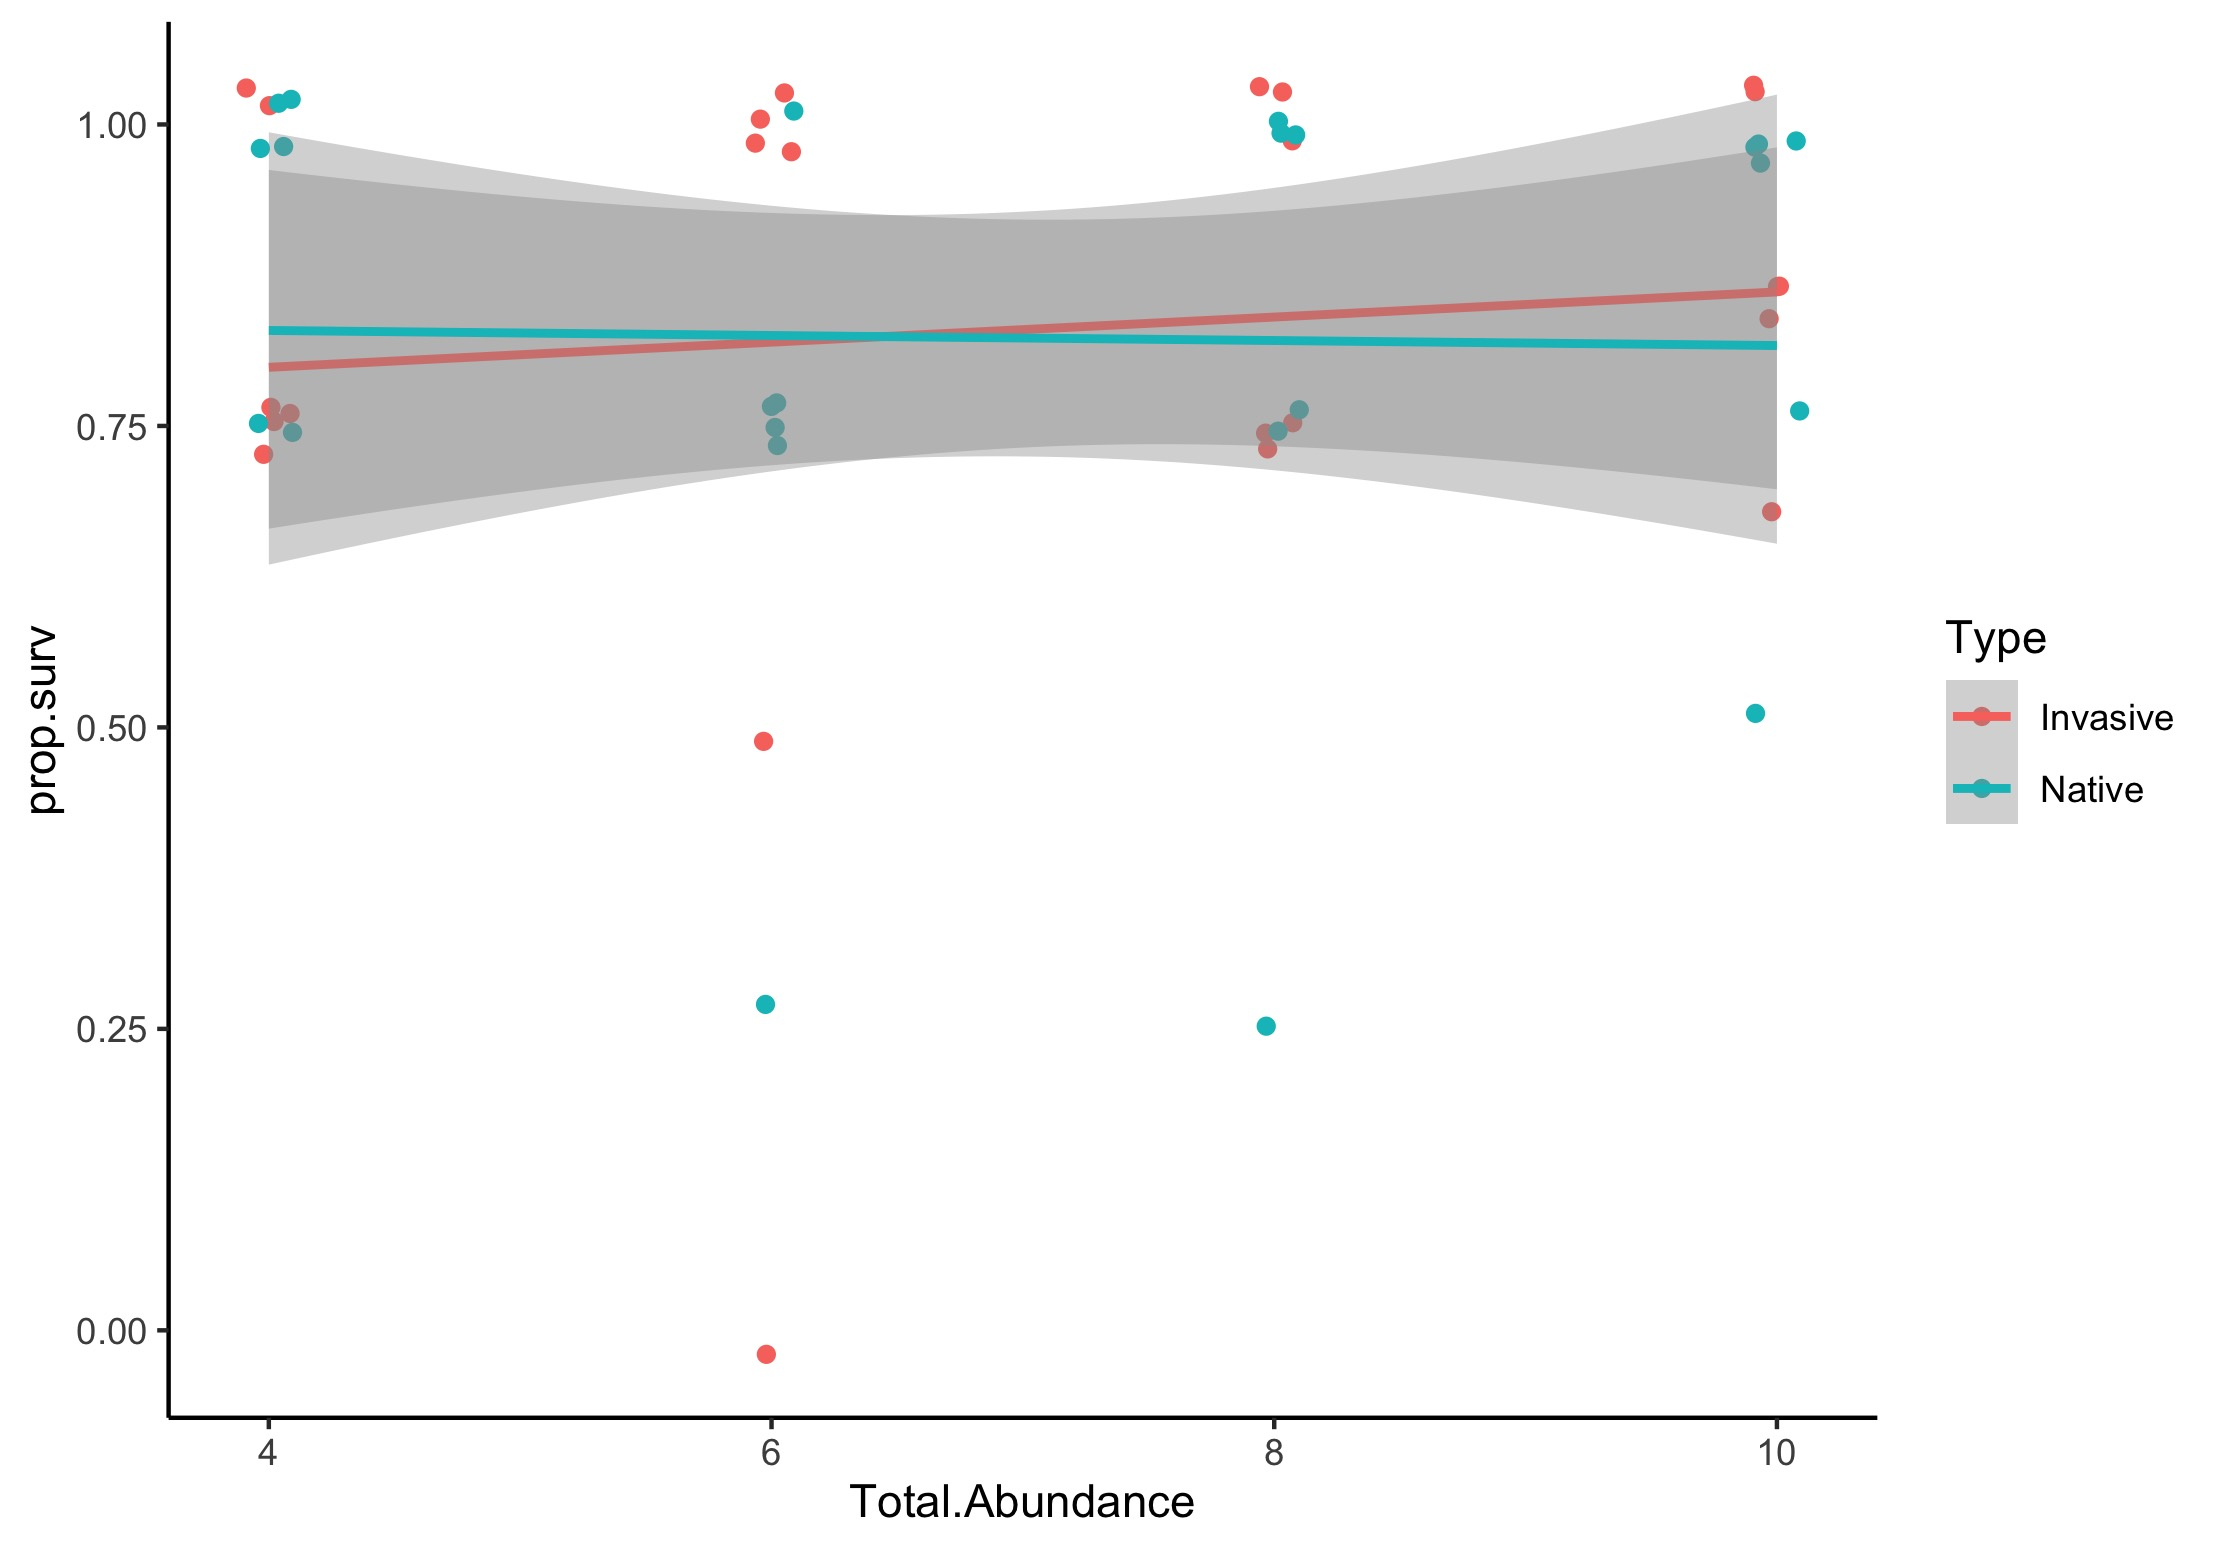
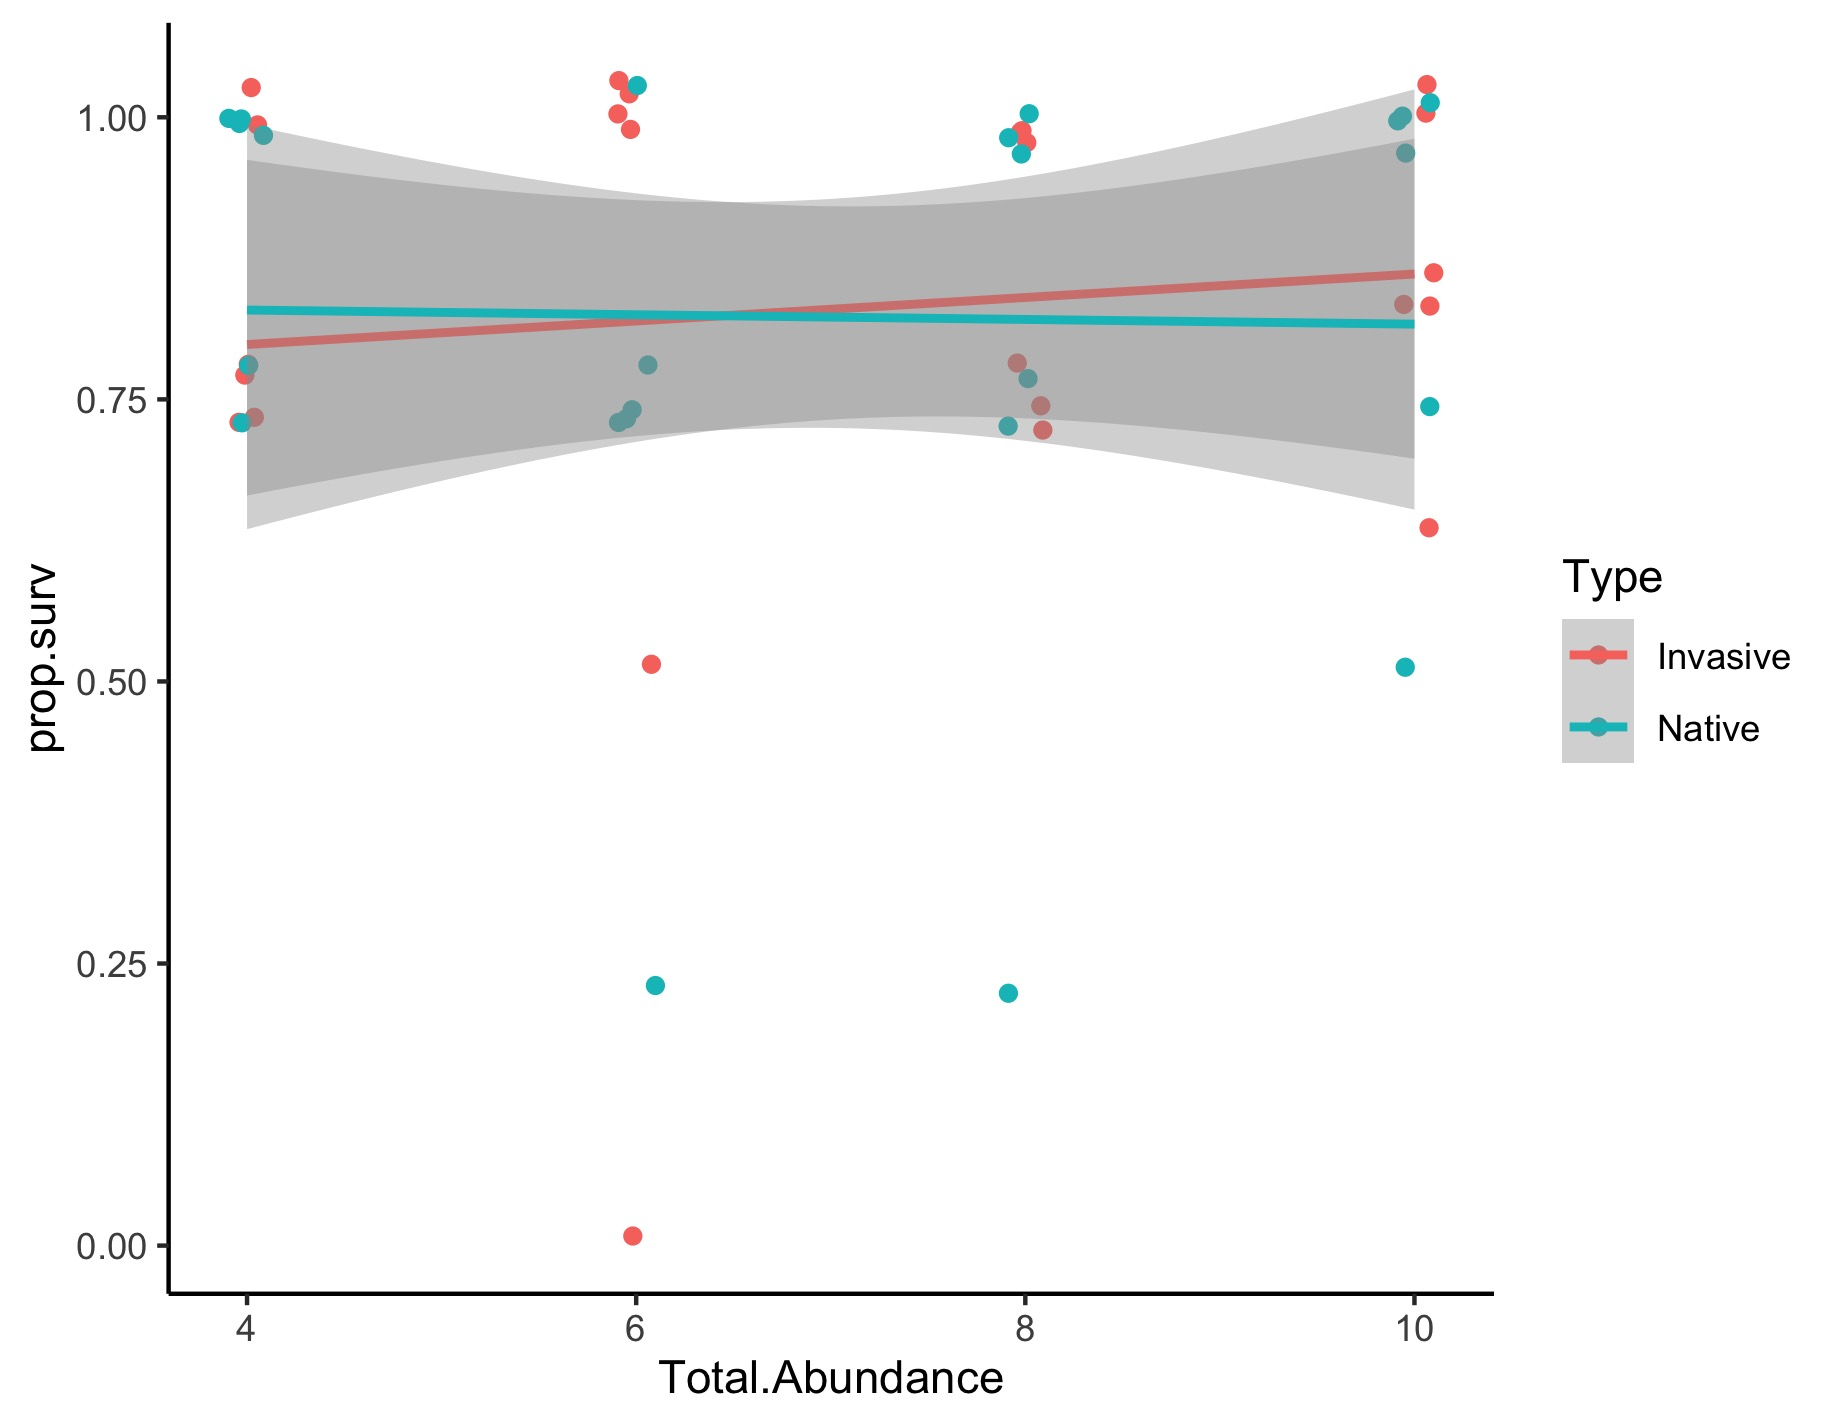
completed analysis of 2016 Survival

diff --git a/lab_notebook/analysis/crayfish_mass_change.md b/lab_notebook/analysis/crayfish_mass_change.md
@@ -566,49 +566,85 @@ A mean (+/- 1 SD) proportion of 0.944 (+/- 0.135) of the invasive crayfish survi
     
 In the 2016 experiment there was a significant negative effect of total abundance on the estimated change in the mass of an individual crayfish (p = 0.0130). The regression shows that there is a loss of 0.4095 g of mass change for each crayfish added to total abundance. The non-significant interaction (p = 0.4059) indicates that the effect of total abundance on the estimated change in mass of an individual crayfish was the same for both the invasive and native crayfish.
 
-The mean (+/- 1 SD) estimated change in mass of an individual invasive crayfish was 
-#### Survival 
-#### The effect of total crayfish abundance at the beginning of the exp on survival
-    
-##### Regression of mass change by total abundance 
+The mean (+/- 1 SD) estimated change in mass of an individual invasive crayfish was 3.64 (+/- 2.36) g and the mean estimated change in mass of an individual native crayfish was 1.97 (+/- 1.16) g but this difference was not significant at an alpha = 0.05 (p = 0.0752).
 
-    summary(lm(prop.surv ~ Total.Abundance * Type, data = cray.N, subset = Year == "2016"))
+## Survival (2016 Experiment)
+
+The model uses `Total.Abundance` and `Type` as the fixed effects and `Tank` as the random effect on which the error ie estimated.
+
+    (survival.tot.abundance.mod.2016 <- lmer(prop.surv ~ 1 + Total.Abundance * Type + (1|Tank) , data = cray.N, subset = Year == "2016"))
     
-    ##################################################    
-    Call:
-      lm(formula = prop.surv ~ Total.Abundance * Type, data = cray.N, 
-         subset = Year == "2016")
+    summary(survival.tot.abundance.mod.2016)
+    anova(survival.tot.abundance.mod.2016)
+   
+    ################################################## 
+    # Model Details
     
-    Residuals:
-      Min       1Q   Median       3Q      Max 
-    -0.81944 -0.07500 -0.02778  0.17917  0.20139 
+    (survival.tot.abundance.mod.2016 <- lmer(prop.surv ~ 1 + Total.Abundance * Type + (1|Tank) , data = cray.N, subset = Year == "2016"))
+    boundary (singular) fit: see ?isSingular
+    Linear mixed model fit by REML ['lmerModLmerTest']
+    Formula: prop.surv ~ 1 + Total.Abundance * Type + (1 | Tank)
+    Data: cray.N
+    Subset: Year == "2016"
+    REML criterion at convergence: 12.0477
+    Random effects:
+      Groups   Name        Std.Dev.
+    Tank     (Intercept) 0.0000  
+    Residual             0.2315  
+    Number of obs: 48, groups:  Tank, 30
+    Fixed Effects:
+      (Intercept)             Total.Abundance                  TypeNative  
+    0.75694                     0.01042                     0.08056  
+    Total.Abundance:TypeNative  
+    -0.01250  
+    optimizer (nloptwrap) convergence code: 0 (OK) ; 0 optimizer warnings; 1 lme4 warnings 
     
-    Coefficients:
-                                Estimate Std. Error t value Pr(>|t|)    
-    (Intercept)                 0.75694    0.15531   4.874 1.46e-05 ***
-    Total.Abundance             0.01042    0.02114   0.493    0.625    
-    TypeNative                  0.08056    0.21964   0.367    0.716    
-    Total.Abundance:TypeNative -0.01250    0.02989  -0.418    0.678    
+    # Summary of Results as a Regression
     
-    Residual standard error: 0.2315 on 44 degrees of freedom
-    Multiple R-squared:  0.005951,	Adjusted R-squared:  -0.06182 
-    F-statistic: 0.08781 on 3 and 44 DF,  p-value: 0.9664
+    summary(survival.tot.abundance.mod.2016)
+    Linear mixed model fit by REML. t-tests use Satterthwaites method ['lmerModLmerTest']
+    Formula: prop.surv ~ 1 + Total.Abundance * Type + (1 | Tank)
+    Data: cray.N
+    Subset: Year == "2016"
+    
+    REML criterion at convergence: 12
+    
+    Scaled residuals: 
+    Min      1Q  Median      3Q     Max 
+    -3.5393 -0.3239 -0.1200  0.7739  0.8698 
+    
+    Random effects:
+    Groups   Name        Variance Std.Dev.
+    Tank     (Intercept) 0.0000   0.0000  
+    Residual             0.0536   0.2315  
+    Number of obs: 48, groups:  Tank, 30
+    
+    Fixed effects:
+    Estimate Std. Error       df t value Pr(>|t|)    
+    (Intercept)                 0.75694    0.15531 44.00000   4.874 1.46e-05 ***
+    Total.Abundance             0.01042    0.02114 44.00000   0.493    0.625    
+    TypeNative                  0.08056    0.21964 44.00000   0.367    0.716    
+    Total.Abundance:TypeNative -0.01250    0.02989 44.00000  -0.418    0.678    
+    
+    Correlation of Fixed Effects:
+    (Intr) Ttl.Ab TypNtv
+    Totl.Abndnc -0.953              
+    TypeNative  -0.707  0.674       
+    Ttl.Abnd:TN  0.674 -0.707 -0.953
+    optimizer (nloptwrap) convergence code: 0 (OK)
+    boundary (singular) fit: see ?isSingular
+    
+    # Summary of the Results as an ANOVA
+    
+    Type III Analysis of Variance Table with Satterthwaites method
+                        Sum Sq   Mean Sq NumDF DenDF F value Pr(>F)
+    Total.Abundance      0.0041667 0.0041667     1    44  0.0777 0.7817
+    Type                 0.0072102 0.0072102     1    44  0.1345 0.7156
+    Total.Abundance:Type 0.0093750 0.0093750     1    44  0.1749 0.6778
+    
     ################################################## 
     
-    anova(lm(prop.surv ~ Total.Abundance * Type, data = cray.N, subset = Year == "2016"))
-    
-    ##################################################
-    Analysis of Variance Table
-    
-    Response: prop.surv
-                          Df  Sum Sq  Mean Sq F value Pr(>F)
-    Total.Abundance       1 0.00417 0.004167  0.0777 0.7817
-    Type                  1 0.00058 0.000579  0.0108 0.9177
-    Total.Abundance:Type  1 0.00937 0.009375  0.1749 0.6778
-    Residuals            44 2.35856 0.053604      
-    ################################################## 
-    
-There was no effect of the total abundance of crayfish in the tank (at the beginning of the exp) on the survival of the crayfish during the 2016 experiment.
+#### Plot of the 2016 Experiment Survival by Total Abundance
     
     ggplot(subset(cray.N, Year == "2016"), mapping = aes(y = prop.surv, x = Total.Abundance, color = Type)) +
              geom_jitter(
@@ -621,24 +657,7 @@ There was no effect of the total abundance of crayfish in the tank (at the begin
     
 ![prop.surv.by.abundance.2016](../output/plots/prop.surv.by.abundance.2016.jpg)
     
-##### ANOVA of survival by treatment
-    
-The other way to analyze the effect would be to treat the different abundance levels as a catagorical variable and analyze the effect on the response with a two-way ANOVA.
-    
-    anova(lm(prop.surv ~ Treatment * Type, data = cray.N, subset = Year == "2016"))
-    
-    ################################################## 
-    Analysis of Variance Table
-    
-    Response: prop.surv
-                    Df  Sum Sq  Mean Sq F value Pr(>F)
-    Treatment       4 0.18403 0.046007  0.8512 0.5014
-    Type            1 0.01235 0.012346  0.2284 0.6353
-    Treatment:Type  2 0.01427 0.007137  0.1320 0.8767
-    Residuals      40 2.16204 0.054051     
-    ################################################## 
-    
-This analysis also shows no effect of the number of crayfish at the beginning of the experiment on survival. 
+#### Plot of the 2016 Experiment Survival by Treatment
     
     ggplot(subset(cray.N, Year == "2016"), mapping = aes(y = prop.surv, x = Treatment, color = Type)) +
              geom_point(
@@ -658,196 +677,5 @@ This analysis also shows no effect of the number of crayfish at the beginning of
     
 ![prop.surv.by.treatment.2016.jpg](../output/plots/prop.surv.by.treatment.2016.jpg)
     
+## Description of the 2016 Experiment Survival Results
     
-##################################################    
-# OLD ANALYSIS BELOW DO NOT USE
-##################################################    
-## Analysis of Tank Mass Change
-
-## Import Data
-
-    cray.2016 <- read.table("./data/crayfish_growth_surv.csv", header = T, sep = ",")
-    
-## Create Variables
-    
-    Sp.Abundance <- c(rep(4, 24), rep(4, 12), rep(6, 6), rep(2, 6))
-    Total.Abundance <- c(rep(8, 6), rep(10, 6), rep(6, 6), rep(4, 6), rep(4, 6), rep(8, 6), rep(10, 6), rep(6, 6))
-    Final.Sp.Abundance <- Sp.Abundance * (cray$Survival / 100)
-    Final.Total.Abundance <- rep(Final.Sp.Abundance[cray$Species == "Native"] + Final.Sp.Abundance[cray$Species == "Invasive"], 2)
-    Final.Invasive.Abundance <- c((Final.Total.Abundance[cray$Species == "Native"] - Final.Sp.Abundance[cray$Species == "Native"]), (Final.Total.Abundance[cray$Species == "Invasive"] - Final.Sp.Abundance[cray$Species == "Invasive"]))
-    Invasive.Abundance <- c(rep(4, 6), rep(6, 6), rep(2, 6), rep(0, 6), rep(4, 6), rep(4, 6), rep(6, 6), rep(2, 6))
-    
-## Add Created Variables to the data.frame
-    
-    cray <- data.frame(cray, Sp.Abundance, Total.Abundance, Final.Sp.Abundance, Final.Total.Abundance, Invasive.Abundance, Final.Invasive.Abundance)
-    
-    
-### Variable Descriptions    
-    
-* Species = the designation of native or invasive crayfish, where 'Native' = _Cambarus_ _sp C_ and 'Invasive' = _Faxonius virilis_.
-
-* Density = the treatment designation where 'control' = 4 individuals of either the native or the invasive species alone, 'low' = 4 individuals of the native and 2 individuals of the invasive, 'equal' = 4 individuals of both the native and the invasive species, and 'high' = 4 individuals of the native species and 6 individuals of the invasive species.
-    
-* MassChange = the average change in mass of all of the crayfish of a group (native or invasive) over the course of the experiment (g). Negative numbers indicate an average loss of mass.
-    
-* LogMassChange = the log (base 10) of MassChange
-    
-* Survival = the percent of the original number of individuals that were alive a the end of the experiment.
-    
-* Sp.Abundance = the number of each crayfish of a given species in a treatment at the beginning of the experiment.
-
-* Total.Abundance = the total number of crayfish in a treatment at the beginnig of the experiment.
-    
-* Final.Sp.Abundance = the number of crayfish of a given species in a treatment at the end of the experiment.
-
-* Final.Total.Abundance = the number of crayfish in a treatment at the end of the experiment.
-
-* Invasive.Abundance = the number of 'Invasive' crayfish in the a treatment at the beginning of the experiment. 
-
-* Final.Invasive.Abundance = the number of 'Invasive' crayfish in the a treatment at the end of the experiment. 
-
-## 2016 Experiment        
-### Survival
-    
-    cray %>%
-      group_by(Species, Density) %>%
-        summarize(mean = mean(Survival), sd = sd(Survival), min = min(Survival), max = max(Survival))
-
-    ##################################################     
-    # Summary of the percent crayfish survied to the end of the experiment by species and treatment
-    
-    `summarise()` has grouped output by 'Species'. You can override using the `.groups` argument.
-    # A tibble: 8 x 6
-    # Groups:   Species [2]
-    Species  Density  mean    sd   min   max
-    <chr>    <chr>   <dbl> <dbl> <dbl> <dbl>
-    1 Invasive control  83.3  12.9  75     100
-    2 Invasive equal    87.5  13.7  75     100
-    3 Invasive high     86.1  12.5  66.7   100
-    4 Invasive low      75    41.8   0     100
-    5 Native   control  91.7  12.9  75     100
-    6 Native   equal    79.2  29.2  25     100
-    7 Native   high     87.5  20.9  50     100
-    8 Native   low      70.8  24.6  25     100
-    
-    ################################################## 
-    
-### Analysis of Survival
-    
-    summary(lm(Survival ~ Total.Abundance * Species, data = cray))
-    
-    ################################################## 
-    Call:
-lm(formula = Survival ~ Total.Abundance * Species, data = cray)
-
-Residuals:
-   Min     1Q Median     3Q    Max 
--81.94  -7.50  -2.78  17.92  20.14 
-
-Coefficients:
-                              Estimate Std. Error t value Pr(>|t|)    
-(Intercept)                     75.695     15.531   4.874 1.46e-05 ***
-Total.Abundance                  1.042      2.114   0.493    0.625    
-SpeciesNative                    8.055     21.964   0.367    0.716    
-Total.Abundance:SpeciesNative   -1.250      2.989  -0.418    0.678   
-
-    ##################################################
-
-    summary(aov(Survival ~ Density * Species, data = cray))
-## Mass Change Analysis
-### Comparison of the treatment groups on the change in mass
-    
-    anova(lm(MassChange ~ Density * Species, data = cray))
-   
-    ##################################################
-    # 2-way ANOVA of the change in mass by treatment and species
-    
-    Analysis of Variance Table
-    
-    Response: MassChange
-    Df  Sum Sq Mean Sq F value  Pr(>F)  
-    Density          3  23.948  7.9826  1.3711 0.26546  
-    Species          1  17.062 17.0623  2.9306 0.09466 .
-    Density:Species  3  23.291  7.7637  1.3335 0.27703  
-    Residuals       40 232.883  5.8221       
-    
-    ################################################## 
-    
-    mass_by_treat <-
-    ggplot(cray, mapping = aes(y = MassChange, x = Density)) +
-      facet_wrap(
-        ~Species
-        ) +
-      geom_jitter(
-        width = 0.1,
-        col = 8
-      ) +
-      stat_summary(
-        fun = mean,
-        fun.min = function(x) mean(x) - sd(x),
-        fun.max = function(x) mean(x) + sd(x)
-      ) +
-      theme_classic()
-    
-    ggexport(mass_by_treat, width = 7, height = 7, filename = "./output/plots/mass_by_treat.pdf")
-    
-![Plot of mass change by treatment](https://github.com/KennyPeanuts/crayfish_leaf_decom/blob/master/lab_notebook/output/plots/mass_by_treat.pdf)
-    
-The analysis by treatment group shows no effect of the treatment group and only a marginally significant effect of species.
-
-    cray %>%
-      group_by(Species) %>%
-        summarize(mean = mean(MassChange), sd = sd(MassChange), min = min(MassChange), max = max(MassChange))
-    
-    ##################################################
-    # Summary of mass change by species
-    
-    # A tibble: 2 x 5
-    Species   mean    sd   min   max
-    <chr>    <dbl> <dbl> <dbl> <dbl>
-    1 Invasive  3.16  3.29 -7.85 10.6 
-    2 Native    1.97  1.16 -1.8   3.75 
-    
-    ################################################## 
-    
-Given that the number of crayfish in the tanks could be considered a continuous variable, it may make more sense to think of mass change as a function of total crayfish in the tank.
-    
-    
-    ggplot(cray, mapping = aes(y = MassChange, x = Total.Abundance, color = Species)) +
-      geom_point() +
-      geom_smooth(
-        method = "lm"
-      ) +
-      theme_classic()
-    
-    ggplot(cray, mapping = aes(y = LogMassChange, x = Final.Total.Abundance, color = Species)) +
-      geom_point() +
-      geom_smooth(
-        method = "lm"
-      ) +
-      theme_classic()
-    
-    ggplot(cray, mapping = aes(y = MassChange, x = Final.Invasive.Abundance, color = Species)) +
-      geom_point() +
-      geom_smooth(
-        method = "lm"
-      ) +
-      theme_classic()
-    
-    ggplot(cray, mapping = aes(y = LogMassChange, x = Total.Abundance, color = Species)) +
-      geom_point() +
-      geom_smooth(
-        method = "lm"
-      ) +
-      theme_classic()
-    
-    ggplot(cray, mapping = aes(y = LogMassChange, x = Invasive.Abundance, color = Species)) +
-      geom_point() +
-      geom_smooth(
-        method = "lm"
-      ) +
-      theme_classic()
-    
-    summary(lm(MassChange ~ Total.Abundance * Species, data = cray))
-    summary(lm(MassChange ~ Invasive.Abundance * Species, data = cray))
-     
